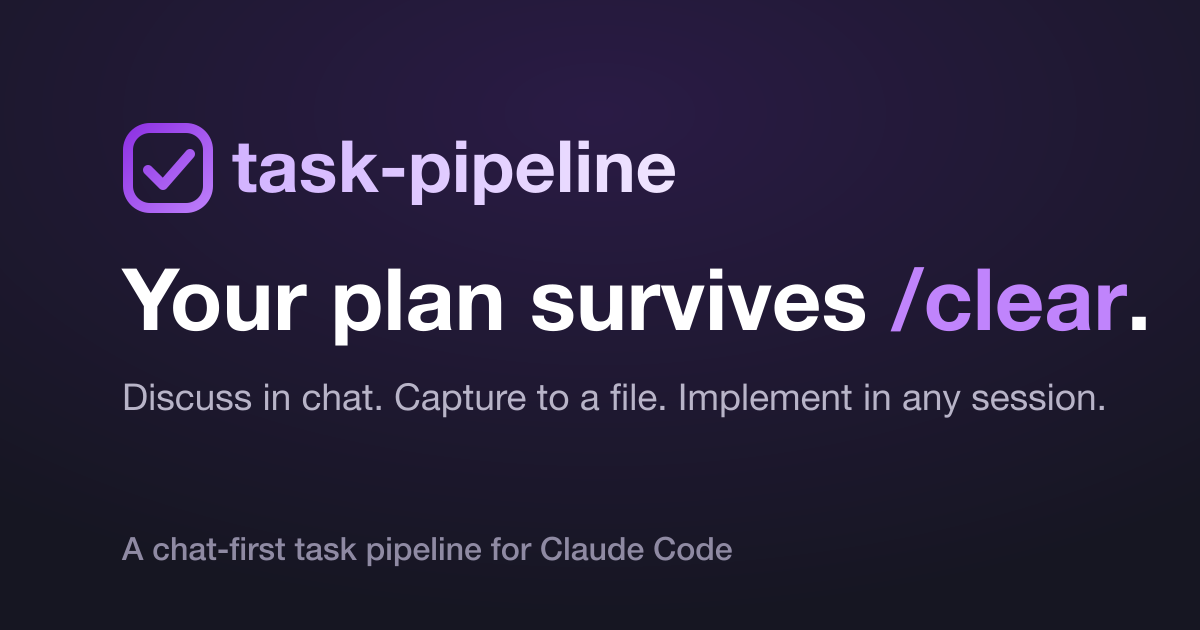
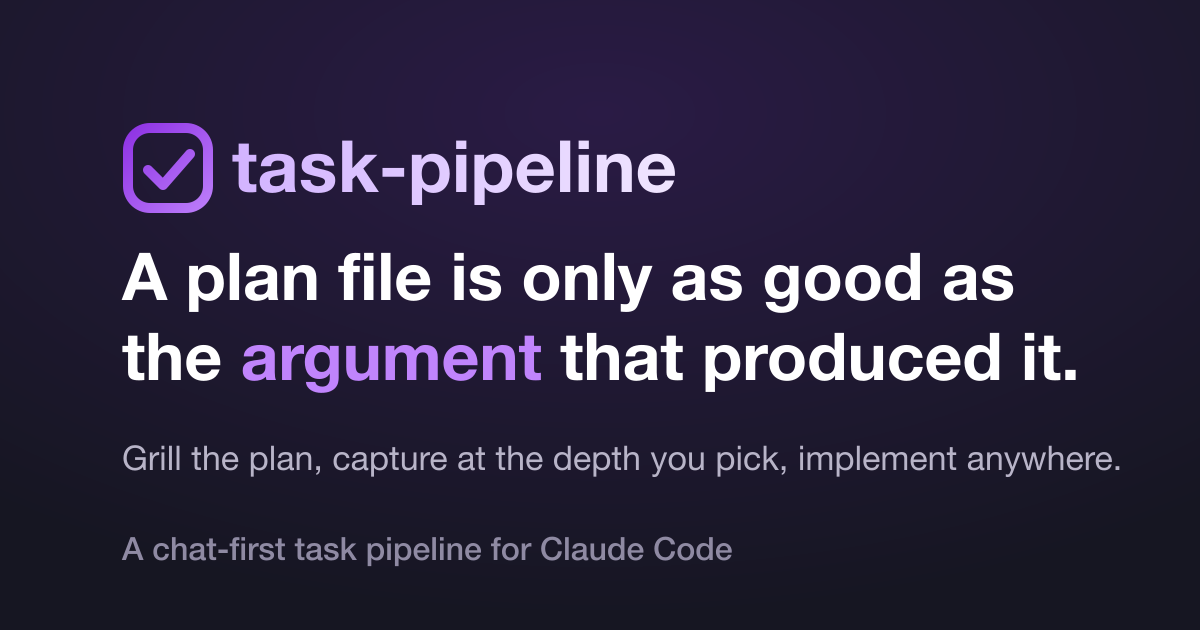
docs: reposition surfaces around interrogation and proportion
- lead the website landing, README hero, and plugin mottos with the
  grill-and-depth axis; demote artifact persistence to a self-aware
  supporting note, since every comparable tool survives a reset too
- add the optional grill beat to the terminal mock, the what-is loop,
  the Quickstart, and first-win; reorder the README "Why" bullets and
  the comparison optimizes-for block to mirror the axis
- credit Matt Pocock's grill-me where grill is introduced at length,
  naming what this adds (ledger, dissenting recommendations, pre-mortem,
  routing into capture)
- frame competitor criticism at the pattern level only — no numbers, no
  names inside the jab; realign the OG card and meta description
- keep every claim within observable grill behavior per its SKILL.md

Changed region(s): [[0.0925, 0.3921, 0.9558, 0.6635], [0.0925, 0.6937, 0.925, 0.754]]

diff --git a/README.md b/README.md
@@ -6,16 +6,20 @@
 
 **Docs & guides → [spair.github.io/task-pipeline](https://spair.github.io/task-pipeline/)**
 
-If you've ever tried to cram Claude into one big "do everything in this ticket" session, you know how it ends: the model starts writing code before it understands the task, "fixes" one bug and breaks three others, and reports "done" while half the acceptance criteria are still stubs. And the plan you talked through in chat? Gone the moment you `/clear`.
+> A plan file is only as good as the argument that produced it.
 
-`task-pipeline` keeps the discussion and the doing apart. Discuss the task freely in chat; when you're ready, one command freezes that discussion into a Markdown file under `.task/`. Any session — this one, or a fresh one tomorrow — implements that file the same way: work the plan, run `/verify`, run `/code-review`, commit.
+```text
+You:    "Let's cache the API responses in Redis."
+Claude: "Great idea! I'll start implementing."
+```
 
-No push, no trace in your repo — delete `.task/` and it's like it was never there. [Here's exactly what it will and won't touch](#why-you-can-trust-this).
+That second line is where projects quietly go wrong: the model agrees and starts building before the plan was ever argued. `task-pipeline` keeps the discussion and the doing apart, and sizes the paperwork to the task. Talk it through in chat; when you're ready, one command freezes that discussion into a single Markdown file under `.task/` at the depth you pick — `to-task` for the what and why, `to-plan` to add a stepwise plan, `to-roadmap` for a multi-task initiative, `to-spec` to pin the load-bearing decisions. Then any session — this one, or a fresh one tomorrow — implements that file the same way: work the plan, run `/verify`, run `/code-review`, commit.
 
-It's for tasks longer than one session — a two-file, twenty-minute fix doesn't need this.
+And when "talk it through" needs teeth, `/task:grill` interrogates the plan first (optional): one question at a time, its recommendations allowed to disagree with you, closing on a pre-mortem — so what gets frozen is what survived the questioning, not the first idea that sounded good. It's for tasks longer than one session; a two-file, twenty-minute fix doesn't need any of this, and leaves no trace either way — [here's exactly what it will and won't touch](#why-you-can-trust-this).
 
 ```text
 discuss in chat
+  → grill it (optional — interrogate the plan first)
   → capture to a file
   → any session implements it
 ```
@@ -27,7 +31,20 @@ discuss in chat
 /plugin install task@task-pipeline
 ```
 
-Talk a task through in chat — say, an HTTP retry system with backoff and a dead-letter queue — then capture it:
+Talk a task through in chat — say, an HTTP retry system with backoff and a dead-letter queue.
+
+Optional first move: grill the plan before you freeze it. It writes nothing and needs no setup, so it works as the very first command in a fresh project — the config confirmation only appears later, at capture:
+
+```text
+/task:grill
+#   → one question at a time, each with a recommended answer:
+#     "Retry the 429s too, or only 5xx and timeouts?"  [recommended: 429s too]
+#   → pushes back when the reasoning is thin; recommendations may disagree with you
+#   → closes with a pre-mortem, prints a decision ledger, and routes you to the
+#     right capture skill — never runs it for you, and touches nothing under .task/
+```
+
+Then capture the discussion at the depth you want:
 
 ```text
 /task:to-plan
@@ -54,15 +71,15 @@ The first capture in a fresh project also writes `.task/config/config.md` inline
 
 ## Why
 
-`task-pipeline` doesn't fight the one-big-session failure with more machinery — it leans on what Claude Code already ships (dynamic Workflows, `/verify`, `/code-review`) and adds just enough structure around them: one artifact per task (`.task/task/<slug>.md`) that carries the discussion's "what, why, and how," and a fixed `## Execution` block that hands the rest to the platform. The plan lives in that file, not in chat — so it survives the `/clear` that would otherwise erase it.
+`task-pipeline` doesn't fight the one-big-session failure with more machinery — it argues with the plan first, then sizes the record to the task. It leans on what Claude Code already ships (dynamic Workflows, `/verify`, `/code-review`) and adds just enough structure around them: one artifact per task (`.task/task/<slug>.md`) carrying the discussion's "what, why, and how" in your language, plus a fixed `## Execution` block (English, like every parser-stable string) that hands the rest to the platform.
 
 Concretely, you get:
 
-- **The plan survives `/clear`, compaction, and tomorrow's fresh session.** The artifact's path (`.task/task/<slug>.md`) is the handle. Pick it up in this session or a brand-new one — there's no active-task state to lose or heal.
-- **Zero ceremony while you think.** Think out loud, explore approaches, change your mind — all in normal conversation. Only when you're ready do you fix it into `.task/task/<slug>.md` with `to-task` or `to-plan`.
+- **Depth is a skill you pick, not a flag.** A two-file fix and a month-long migration don't deserve the same ceremony — reach for `to-task`, `to-plan`, `to-roadmap`, or `to-spec` and the file carries exactly that much structure. There is no `--plan` or `--deep` switch anywhere.
+- **The plan gets grilled before it gets frozen.** `/task:grill` keeps a decision-plus-rationale ledger, makes recommendations that are allowed to disagree with you, and closes with a pre-mortem — so no "great idea!" rubber-stamp makes it into the file.
 - **Nothing new to learn on the execution side.** There is no `build`/`ship` step to run — any session told `implement .task/task/<slug>.md` reads the artifact and follows its own `## Execution` block through to a commit.
-- **Verification and review are written into every artifact, not left to the model's mood.** Verification is `/verify`, review is `/code-review` — no hand-rolled audit loop.
-- **Your language for content, English only where parsers need it.** The Description is written in your language; everything parser-stable (headers, commit trailers, the `## Execution` block) stays English, per the policy in `config.md`.
+- **Invisible to your repo.** `.task/` is git-excluded, never shows in `git status`, and `rm -rf .task` leaves the repo exactly as before — [the trust section below](#why-you-can-trust-this) spells out precisely what it will and won't touch.
+- **And yes, the discussion survives `/clear`, compaction, and tomorrow's fresh session** — table stakes, but worth saying. The artifact's path is the only handle; there's no active-task state to lose or heal.
 
 ## Why you can trust this
 
@@ -127,7 +144,9 @@ Each capture produces exactly one `.task/task/<slug>.md`, where `<slug>` is both
 
 ## Comparison with alternatives
 
-task-pipeline optimizes for a fixed, validator-checked plan contract (`### Step N` — Goal / Touches / Logic) that you author in chat and it serializes to disk — rails that keep a session on the plan you already worked out, not a generator that invents one from a prompt. Load-bearing decisions pin into attachable per-decision specs, roadmaps fan out into a plan per item with auto-ticked checkboxes, and the whole surface stays small: flat Markdown under `.task/`, no MCP server, no API keys, no task database, with `/verify` / `/code-review` / Workflows delegated to the platform. It is explicitly not for a two-file, twenty-minute fix.
+Most spec-driven tools answer "the model codes before it understands" with volume — more templates, more artifacts, the same ceremony for a rename and a rewrite. task-pipeline answers it with interrogation and proportion instead: a `grill` step that argues with the plan before anything is written, and capture depth chosen per task (`to-task` / `to-plan` / `to-roadmap` / `to-spec`, never a flag).
+
+Underneath, the plan contract is fixed and validator-checked (`### Step N` — Goal / Touches / Logic), you author it in chat and it serializes to disk — rails that keep a session on the plan you already worked out, not a generator that invents one from a prompt. Load-bearing decisions pin into attachable per-decision specs, roadmaps fan out into a plan per item with auto-ticked checkboxes, and the whole surface stays small: flat Markdown under `.task/`, no MCP server, no API keys, no task database, with `/verify` / `/code-review` / Workflows delegated to the platform. It is explicitly not for a two-file, twenty-minute fix.
 
 Full head-to-head tables against default Claude Code, superpowers, OpenSpec, spec-kit, and Task Master live on the site: **[Comparison with alternatives](https://spair.github.io/task-pipeline/guide/comparison)**.
 
@@ -157,7 +176,7 @@ in a fresh session:                fans unchecked items out to
   → /verify → /code-review → commit
 ```
 
-`/task:grill` is the optional pre-capture step: point it at a plan or decision and it interrogates one question at a time, keeps a decision-plus-rationale ledger, ends with a pre-mortem, and routes you to the right capture skill — writing nothing itself. Grill *before* you capture, so the artifact serializes a decision that has already been pressure-tested.
+`/task:grill` is the optional pre-capture step: point it at a plan or decision and it interrogates one question at a time, keeps a decision-plus-rationale ledger, ends with a pre-mortem, and routes you to the right capture skill — writing nothing itself. Grill *before* you capture, so the artifact serializes a decision that has already been pressure-tested. It descends from Matt Pocock's [grill-me](https://github.com/mattpocock/skills) — the interrogate-before-you-build idea — and adds a decision ledger, recommendations that are allowed to disagree with you, a closing pre-mortem, and the part grill-me leaves open: somewhere to put the answers.
 
 Depth of capture is the skill you pick, not a flag: `to-task` for a quick "what and why", `to-plan` when you already know the approach, `to-roadmap` for a multi-task initiative. `to-spec` is orthogonal — it pins load-bearing technical decisions into `.task/spec/<slug>.md`, which tasks and roadmaps reference via a `Spec:` header and the implementing session honors as a fixed anchor. There is no execution skill — capture ends with a copy-pasteable path, and any session (the same one, a fresh one, or one spawned by `roadmap-to-workflow`) executes the artifact directly.
 

diff --git a/website/index.md b/website/index.md
@@ -3,8 +3,8 @@ layout: home
 
 hero:
   name: task-pipeline
-  text: Your plan survives /clear. Nothing else does.
-  tagline: Talk the task through in chat. One command freezes it into a file. Any session — this one, or a fresh one tomorrow — picks that file up and runs it, with nothing to re-explain.
+  text: A plan file is only as good as the argument that produced it.
+  tagline: Get the plan grilled first (optional), freeze the chat into one Markdown file at the depth you pick, and let any session implement it — work the plan, /verify, /code-review, commit.
   image:
     src: /logo.svg
     alt: task-pipeline
@@ -20,12 +20,12 @@ hero:
       link: https://github.com/SpaiR/task-pipeline
 
 features:
-  - icon: '<svg xmlns="http://www.w3.org/2000/svg" width="24" height="24" viewBox="0 0 24 24" fill="none" stroke="currentColor" stroke-width="2" stroke-linecap="round" stroke-linejoin="round"><path d="M15.2 3a2 2 0 0 1 1.4.6l3.8 3.8a2 2 0 0 1 .6 1.4V19a2 2 0 0 1-2 2H5a2 2 0 0 1-2-2V5a2 2 0 0 1 2-2z"/><path d="M17 21v-7a1 1 0 0 0-1-1H8a1 1 0 0 0-1 1v7"/><path d="M7 3v4a1 1 0 0 0 1 1h7"/></svg>'
-    title: The plan survives /clear
-    details: The file's path is the handle. Pick a task up in this session or a brand-new one tomorrow — there's no active-task state to lose.
-  - icon: '<svg xmlns="http://www.w3.org/2000/svg" width="24" height="24" viewBox="0 0 24 24" fill="none" stroke="currentColor" stroke-width="2" stroke-linecap="round" stroke-linejoin="round"><path d="M21 15a2 2 0 0 1-2 2H7l-4 4V5a2 2 0 0 1 2-2h14a2 2 0 0 1 2 2z"/></svg>'
-    title: Zero ceremony while you think
-    details: Think out loud, explore approaches, change your mind — all in normal conversation. Only when you're ready do you fix it into a file.
+  - icon: '<svg xmlns="http://www.w3.org/2000/svg" width="24" height="24" viewBox="0 0 24 24" fill="none" stroke="currentColor" stroke-width="2" stroke-linecap="round" stroke-linejoin="round"><path d="M7.9 20A9 9 0 1 0 4 16.1L2 22Z"/><path d="M9.09 9a3 3 0 0 1 5.83 1c0 2-3 3-3 3"/><path d="M12 17h.01"/></svg>'
+    title: The plan gets grilled first
+    details: An optional grill step interrogates the plan one question at a time — and its recommendations are allowed to disagree with you — closing on a pre-mortem before anything is frozen.
+  - icon: '<svg xmlns="http://www.w3.org/2000/svg" width="24" height="24" viewBox="0 0 24 24" fill="none" stroke="currentColor" stroke-width="2" stroke-linecap="round" stroke-linejoin="round"><path d="M12.83 2.18a2 2 0 0 0-1.66 0L2.6 6.08a1 1 0 0 0 0 1.83l8.58 3.91a2 2 0 0 0 1.66 0l8.58-3.9a1 1 0 0 0 0-1.83Z"/><path d="M2 12a1 1 0 0 0 .58.91l8.6 3.91a2 2 0 0 0 1.65 0l8.58-3.9A1 1 0 0 0 22 12"/><path d="M2 17a1 1 0 0 0 .58.91l8.6 3.91a2 2 0 0 0 1.65 0l8.58-3.9A1 1 0 0 0 22 17"/></svg>'
+    title: You pick the depth, not a flag
+    details: A two-file fix and a month-long migration don't deserve the same paperwork. Capture is the skill you reach for — to-task, to-plan, to-roadmap, to-spec — never a template you're made to fill.
   - icon: '<svg xmlns="http://www.w3.org/2000/svg" width="24" height="24" viewBox="0 0 24 24" fill="none" stroke="currentColor" stroke-width="2" stroke-linecap="round" stroke-linejoin="round"><polyline points="4 17 10 11 4 5"/><line x1="12" x2="20" y1="19" y2="19"/></svg>'
     title: Any session can run it
     details: Tell any session `implement &lt;path&gt;` and it reads the file, works the plan, runs /verify and /code-review, and commits. It's just a chat instruction — you already know how.
@@ -35,9 +35,9 @@ features:
   - icon: '<svg xmlns="http://www.w3.org/2000/svg" width="24" height="24" viewBox="0 0 24 24" fill="none" stroke="currentColor" stroke-width="2" stroke-linecap="round" stroke-linejoin="round"><circle cx="12" cy="12" r="10"/><path d="m9 12 2 2 4-4"/></svg>'
     title: Verify and review, every time
     details: Each task file bakes in /verify (does it work end-to-end?) and /code-review (is it clean?) before commit — not left to the model's mood.
-  - icon: '<svg xmlns="http://www.w3.org/2000/svg" width="24" height="24" viewBox="0 0 24 24" fill="none" stroke="currentColor" stroke-width="2" stroke-linecap="round" stroke-linejoin="round"><path d="M10.733 5.076a10.744 10.744 0 0 1 11.205 6.575 1 1 0 0 1 0 .696 10.747 10.747 0 0 1-1.444 2.49"/><path d="M14.084 14.158a3 3 0 0 1-4.242-4.242"/><path d="M17.479 17.499a10.75 10.75 0 0 1-15.417-5.151 1 1 0 0 1 0-.696 10.75 10.75 0 0 1 4.446-5.143"/><path d="m2 2 20 20"/></svg>'
-    title: Invisible to your repo
-    details: .task/ is excluded via .git/info/exclude, never .gitignore. It never shows in git status; delete it with rm -rf .task and the repo is exactly as before.
+  - icon: '<svg xmlns="http://www.w3.org/2000/svg" width="24" height="24" viewBox="0 0 24 24" fill="none" stroke="currentColor" stroke-width="2" stroke-linecap="round" stroke-linejoin="round"><path d="M15.2 3a2 2 0 0 1 1.4.6l3.8 3.8a2 2 0 0 1 .6 1.4V19a2 2 0 0 1-2 2H5a2 2 0 0 1-2-2V5a2 2 0 0 1 2-2z"/><path d="M17 21v-7a1 1 0 0 0-1-1H8a1 1 0 0 0-1 1v7"/><path d="M7 3v4a1 1 0 0 0 1 1h7"/></svg>'
+    title: The plan survives /clear
+    details: Table stakes, but worth saying — the file's path is the handle. Pick a task up in this session or a brand-new one tomorrow; there's no active-task state to lose.
 ---
 
 <div class="tp-terminal">
@@ -50,12 +50,17 @@ features:
   <div class="tp-terminal__body">
     <div class="tp-comment"># 1. talk the task through in chat — an HTTP retry system with backoff…</div>
     <div class="tp-sp"></div>
-    <div class="tp-comment"># 2. freeze the discussion into a file</div>
+    <div class="tp-comment"># 2. grill the plan first (optional) — one question at a time</div>
+    <div class="tp-prompt">/task:grill</div>
+    <div class="tp-out">  → Retry the 429s too, or only 5xx and timeouts?  [recommended: 429s too]</div>
+    <div class="tp-out">    decision ledger → route to /task:to-plan</div>
+    <div class="tp-sp"></div>
+    <div class="tp-comment"># 3. freeze the discussion into a file</div>
     <div class="tp-prompt">/task:to-plan</div>
     <div class="tp-out">  → wrote .task/task/http-retry-backoff.md</div>
     <div class="tp-out">    ## Description + ## Plan (Goal / Touches / Logic steps)</div>
     <div class="tp-sp"></div>
-    <div class="tp-comment"># 3. hand the file to any session — this one, or a fresh one tomorrow</div>
+    <div class="tp-comment"># 4. hand the file to any session — this one, or a fresh one tomorrow</div>
     <div class="tp-prompt">implement .task/task/http-retry-backoff.md</div>
     <div class="tp-out">  → follows the file's ## Execution block — the steps that</div>
     <div class="tp-out">    tell any session what to do next:</div>
@@ -117,7 +122,7 @@ task-pipeline is **not** an orchestration engine. No subagents, no hooks, no exe
 
 `task-pipeline` is for tasks longer than one session — work that needs a plan you can hand-edit, or that should leave a record. **A two-file, twenty-minute fix doesn't need this**; default Claude Code (plan mode + TodoWrite) is the better tool there.
 
-Reach for it when the plan is worth keeping: when you want it to survive `/clear`, when a colleague (or tomorrow-you) should be able to read it, or when the work spans several tasks. Descriptions are written in your language; only the format's fixed strings (section headers, commit trailers, the Execution block) stay English. The [comparison page](/guide/comparison) lays out where it fits against default Claude Code, superpowers, and OpenSpec.
+Reach for it when the plan deserves an argument and a record: when the decision has real forks worth interrogating first, when a colleague (or tomorrow-you) should be able to read what was decided and why, or when the work spans several tasks — and yes, when it should outlast a `/clear`. Descriptions are written in your language; only the format's fixed strings (section headers, commit trailers, the Execution block) stay English. The [comparison page](/guide/comparison) lays out where it fits against default Claude Code, superpowers, and OpenSpec.
 
 ## Install in two commands
 

diff --git a/website/guide/what-is-task-pipeline.md b/website/guide/what-is-task-pipeline.md
@@ -1,6 +1,6 @@
 # What is task-pipeline?
 
-If you've ever tried to cram Claude into one big "do everything in this ticket" session, you know how it ends: the model starts writing code before it understands the task, "fixes" one bug and breaks three others, and reports "done" while half the acceptance criteria are still stubs. And the plan you talked through in chat? Gone the moment you `/clear`.
+You float an approach in chat — "let's cache the API responses in Redis" — and Claude answers "Great idea! I'll start implementing," before the plan was ever argued, before anyone asked the one question that would have changed it. That's the failure this fixes: the model agrees and starts coding before it understands, and the ceremony around it never fits the work — a two-line fix and a month-long migration get shoved through the same process, or through none at all. The thinking you did in chat is never pinned down; it's just scrollback.
 
 `task-pipeline` keeps **the discussion and the doing apart.** Here's the whole loop, start to finish:
 
@@ -8,16 +8,21 @@ If you've ever tried to cram Claude into one big "do everything in this ticket" 
 # 1. talk it through in chat — no ceremony, change your mind freely
 you: add HTTP retry with backoff to the payments client
 
-# 2. when you're ready, one command freezes that discussion into a file
+# 2. grill the plan first (optional) — one question at a time, writes nothing
+/task:grill
+  → Retry the 429s too, or only 5xx and timeouts?  [recommended: 429s too]
+    decision ledger → route to /task:to-plan
+
+# 3. when you're ready, one command freezes that discussion into a file
 /task:to-plan
   → wrote .task/task/http-retry-backoff.md   (## Description + ## Plan)
 
-# 3. hand the file to any session — this one, or a fresh one next week
+# 4. hand the file to any session — this one, or a fresh one next week
 implement .task/task/http-retry-backoff.md
   → work the plan · /verify · /code-review · commit
 ```
 
-Three beats: discuss, capture, implement. The plan you talked through is now a file on disk, not chat scrollback — which is exactly why step 3 works just as well in a brand-new session tomorrow.
+Four beats: discuss, grill (optional), capture, implement. The plan you talked through — and argued, if you grilled it — is now a file on disk, not chat scrollback, which is exactly why the last step works just as well in a brand-new session tomorrow.
 
 ## The idea: serialize the context, don't orchestrate it
 
@@ -28,7 +33,7 @@ That distinction is why it stays small, and it's the opposite bet from the bread
 - **one file per task** — `.task/task/<slug>.md`, carrying the discussion's decisions;
 - **a stamped `## Execution` block** inside that file, which hands the rest back to the platform.
 
-The plan lives in the file, not in chat — so it survives the `/clear`, the compaction, and the fresh session tomorrow that would otherwise erase it.
+What gets pinned is an *argued* decision, serialized at the depth you chose — the skill you pick decides how much structure the file carries, from a bare "what and why" to a stepwise plan. (And yes, the file then outlives the `/clear`, the compaction, and tomorrow's fresh session that would otherwise erase it — table stakes, not the point.)
 
 ## The shape of the pipeline
 

diff --git a/website/guide/first-win.md b/website/guide/first-win.md
@@ -26,6 +26,10 @@ you:  no config file, just the flag
 
 You've explored it, changed your mind once, landed on the shape. That discussion is the part that normally dies on `/clear`.
 
+::: tip Optional: grill it first
+When a plan has real forks — this flag's default, that error's fallback — run [`/task:grill`](/guide/grill) before you capture. It interrogates the plan one question at a time, keeps a decision ledger, and ends with a pre-mortem, then routes you to the right capture skill. It writes nothing and needs no config, so it works even as your very first command. Our `--quiet` flag is small enough to skip it; reach for it when the decision has more at stake.
+:::
+
 ## 3. Capture it (one command)
 
 ```text

diff --git a/website/guide/grill.md b/website/guide/grill.md
@@ -8,6 +8,10 @@ It writes **nothing**. Its whole output is a hardened discussion plus a decision
 
 A capture skill freezes a discussion into a file. If the discussion was fuzzy, the file is fuzzy. `grill` is where you pressure-test the thinking *before* it's frozen — so `to-plan` / `to-spec` / `to-task` / `to-roadmap` serialize something that's already been examined.
 
+## Where it comes from
+
+`grill` descends from Matt Pocock's [grill-me](https://github.com/mattpocock/skills) — the interrogate-before-you-build idea that made the case interrogation belongs before code. This one adds a decision ledger, recommendations that are allowed to disagree with you rather than rubber-stamp, a closing pre-mortem, and routing into capture — the part grill-me leaves open: somewhere to put the answers.
+
 ## How it works
 
 ```text

diff --git a/website/guide/comparison.md b/website/guide/comparison.md
@@ -2,6 +2,8 @@
 
 ## What task-pipeline optimizes for
 
+- **An argued plan.** The model tends to agree and start coding before the plan is examined; `grill` interrogates the decision first — one question at a time, recommendations allowed to disagree with you, closing on a pre-mortem — so what gets frozen is what survived the questioning, not the first idea that sounded good.
+- **Proportional depth.** The pattern elsewhere is to fix shaky understanding with volume — more templates, more artifacts, the same ceremony for a rename and a rewrite. Here depth is the skill you pick (`to-task` / `to-plan` / `to-roadmap` / `to-spec`), never a template you're made to fill: a two-file fix and a month-long migration don't carry the same paperwork.
 - **A fixed, checkable plan contract.** Steps are `### Step N` with `Goal` / `Touches` / optional `Logic` — a format a validator (`validate.sh`) checks and reports on every write, not free text. The check is informational; it gates nothing.
 - **Rails, not a generator.** You work out the plan in chat and stay its author; the capture skill serializes that decision to disk and keeps the implementing session on it. It does not invent a plan from a one-line prompt. Autopilot exists (`roadmap-to-workflow` fans a roadmap out to sessions) but it is an explicit opt-in over a roadmap you already approved.
 - **Attachable per-decision specs.** After a chat discussion you can pin one or several load-bearing decisions into `.task/spec/<slug>.md` and cite them from any task, plan, or roadmap via a `Spec:` header; the implementing session reads them as fixed anchors.